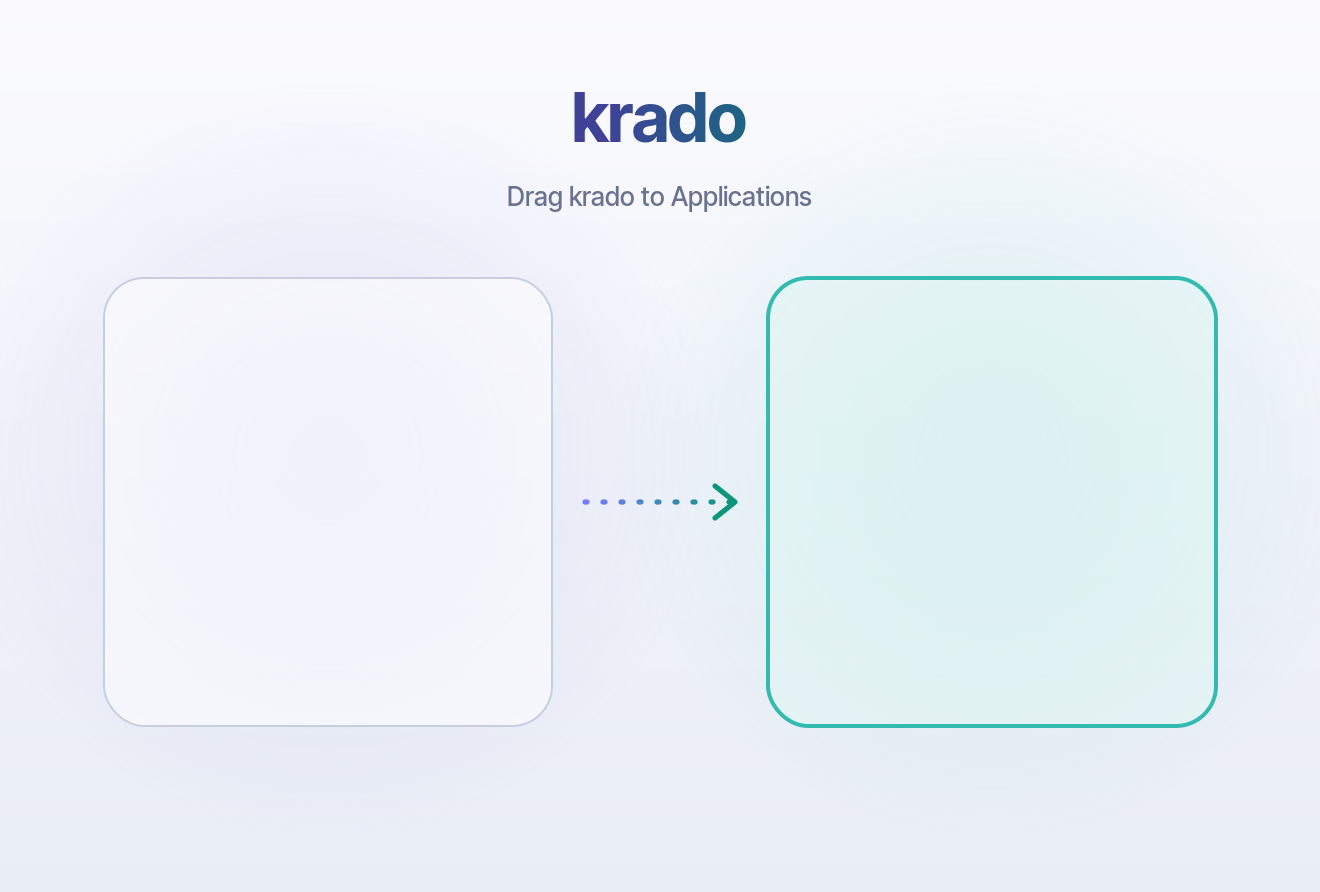
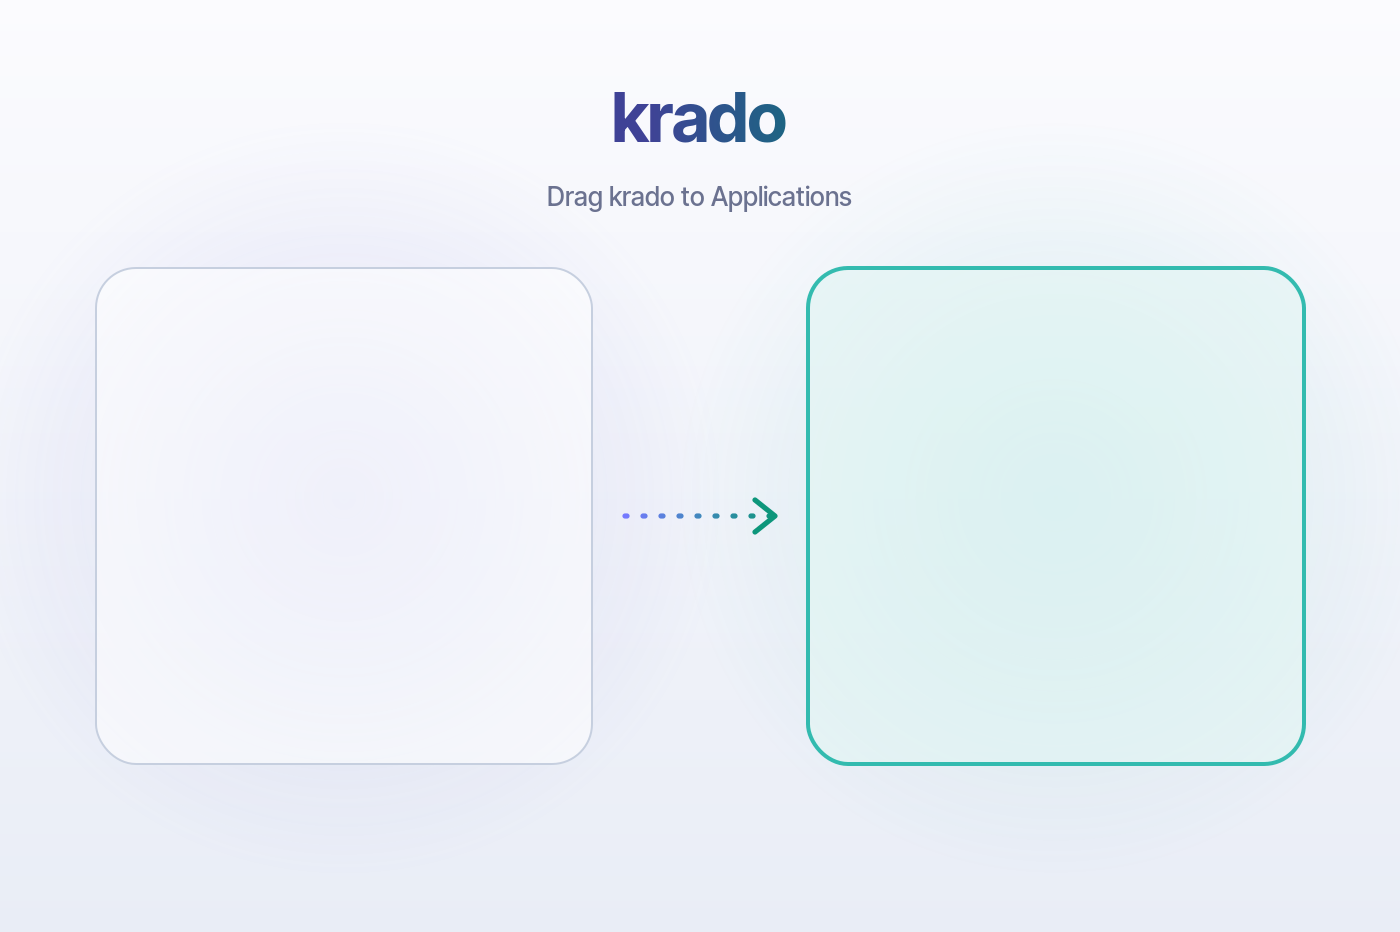
0.1.6 test A: cards 248 pt so Finder's selection box sits inside with even margin (window 700x450); arrow at card middle; glide ease-in-out cubic (move 0.26 s, grow 0.34 s). Not for main until Kazina picks

Changed region(s): [[0.4348, 0.2724, 0.9318, 0.8475], [0.3727, 0.0908, 0.6212, 0.2422], [0.4038, 0.333, 0.4348, 0.3632]]

diff --git a/Tests/KradoCoreTests/MotionSpecTests.swift b/Tests/KradoCoreTests/MotionSpecTests.swift
@@ -10,7 +10,7 @@ final class MotionSpecTests: XCTestCase {
         let b = CGRect(x: 100, y: 80, width: 600, height: 400)
         XCTAssertEqual(MotionSpec.frame(from: a, to: b, progress: 0), a)
         XCTAssertEqual(MotionSpec.frame(from: a, to: b, progress: 1), b)
-        XCTAssertEqual(MotionSpec.frame(from: a, to: b, progress: 0.5).origin.x, 75)
+        XCTAssertEqual(MotionSpec.frame(from: a, to: b, progress: 0.5).origin.x, CGFloat((-100 + 200 * MotionSpec.ease(0.5)).rounded()))
     }
     func testDisplayBudget() {
         XCTAssertEqual(MotionSpec.frameCount(refreshRate: 60, duration: 0.20), 12)
@@ -84,5 +84,12 @@ final class MotionSpecTests: XCTestCase {
         XCTAssertEqual(MotionSpec.duration(from: CGRect(x: 0, y: 0, width: 1280, height: 1440), to: cell), MotionSpec.moveDuration)
         XCTAssertGreaterThan(MotionSpec.moveDuration, 0.20)
         XCTAssertGreaterThan(MotionSpec.growDuration, MotionSpec.moveDuration)
+    }
+
+    func testEaseIsMonotonicAndEndsAtOne() {
+        XCTAssertEqual(MotionSpec.ease(0), 0, accuracy: 1e-9)
+        XCTAssertEqual(MotionSpec.ease(1), 1, accuracy: 1e-9)
+        var last = 0.0
+        for i in 1...100 { let v = MotionSpec.ease(Double(i) / 100); XCTAssertGreaterThanOrEqual(v, last); XCTAssertLessThanOrEqual(v, 1); last = v }
     }
 }

diff --git a/Sources/KradoCore/MotionSpec.swift b/Sources/KradoCore/MotionSpec.swift
@@ -22,8 +22,14 @@ public enum MotionSpec {
         let t = min(1, max(0, progress))
         return 1 - pow(1 - t, 3)
     }
+    /// The glide curve. 0.1.6 test A (Kazina 2026-10-20 19:53: 0.1.5's ease-out cubic
+    /// felt flat): ease-in-out cubic (slow start, slow settle).
+    public static func ease(_ progress: Double) -> Double {
+        let t = min(1, max(0, progress))
+        return t < 0.5 ? 4 * t * t * t : 1 - pow(-2 * t + 2, 3) / 2
+    }
     public static func frame(from: CGRect, to: CGRect, progress: Double) -> CGRect {
-        let t = CGFloat(easeOut(progress))
+        let t = CGFloat(ease(progress))
         func mix(_ a: CGFloat, _ b: CGFloat) -> CGFloat { (a + (b - a) * t).rounded() }
         return CGRect(x: mix(from.minX, to.minX), y: mix(from.minY, to.minY),
                       width: mix(from.width, to.width), height: mix(from.height, to.height))

diff --git a/packaging/dmg/make_backgrounds.py b/packaging/dmg/make_backgrounds.py
@@ -54,7 +54,11 @@ def check_geometry():
     if ARROW_MODE != "icons":
         assert left_gap >= 8 and right_gap >= 8, "arrow clear of the cards"
     assert abs(left_gap - right_gap) < 1e-9, "arrow ink centred between the icons/cards"
-    assert size - ICON == 64, "32-pt side padding around the icon"
+    # Finder's selection box is about icon + 8 pt per side; keep even air around it and
+    # the label inside the card (Kazina 2026-10-20 19:53).
+    sel_top, label_bottom_ = AY - half - 8, AY + half + 26
+    m_top, m_bottom, m_side = sel_top - top, top + size - label_bottom_, (size - ICON - 16) / 2
+    assert min(m_top, m_bottom, m_side) >= 20 and max(m_top, m_bottom, m_side) - min(m_top, m_bottom, m_side) <= 12, (m_top, m_bottom, m_side)
     # Label measured in Finder at 2x (macOS 15 and 26): down to about icon centre + 106.
     label_bottom = AY + half + 26
     assert top + 8 <= AY - half and label_bottom + 12 <= top + size, "icon and label inside the card"
